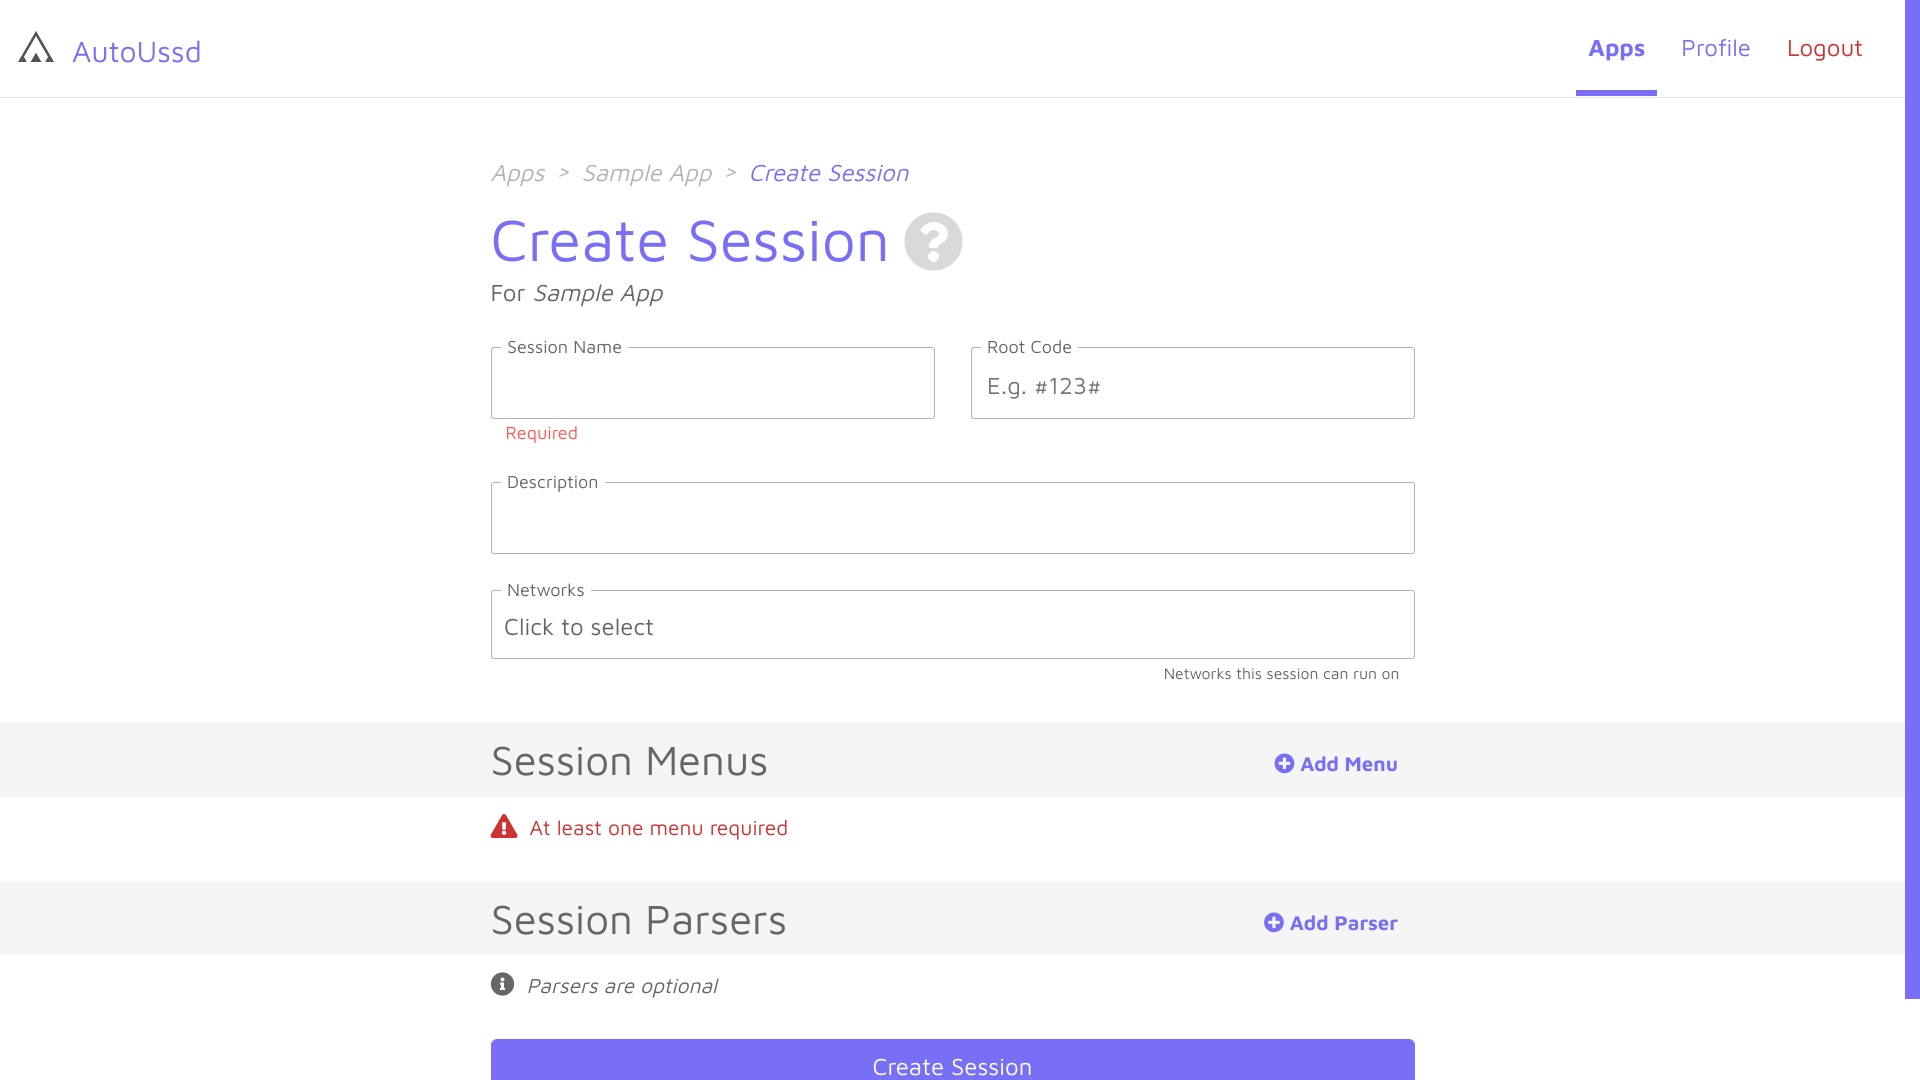
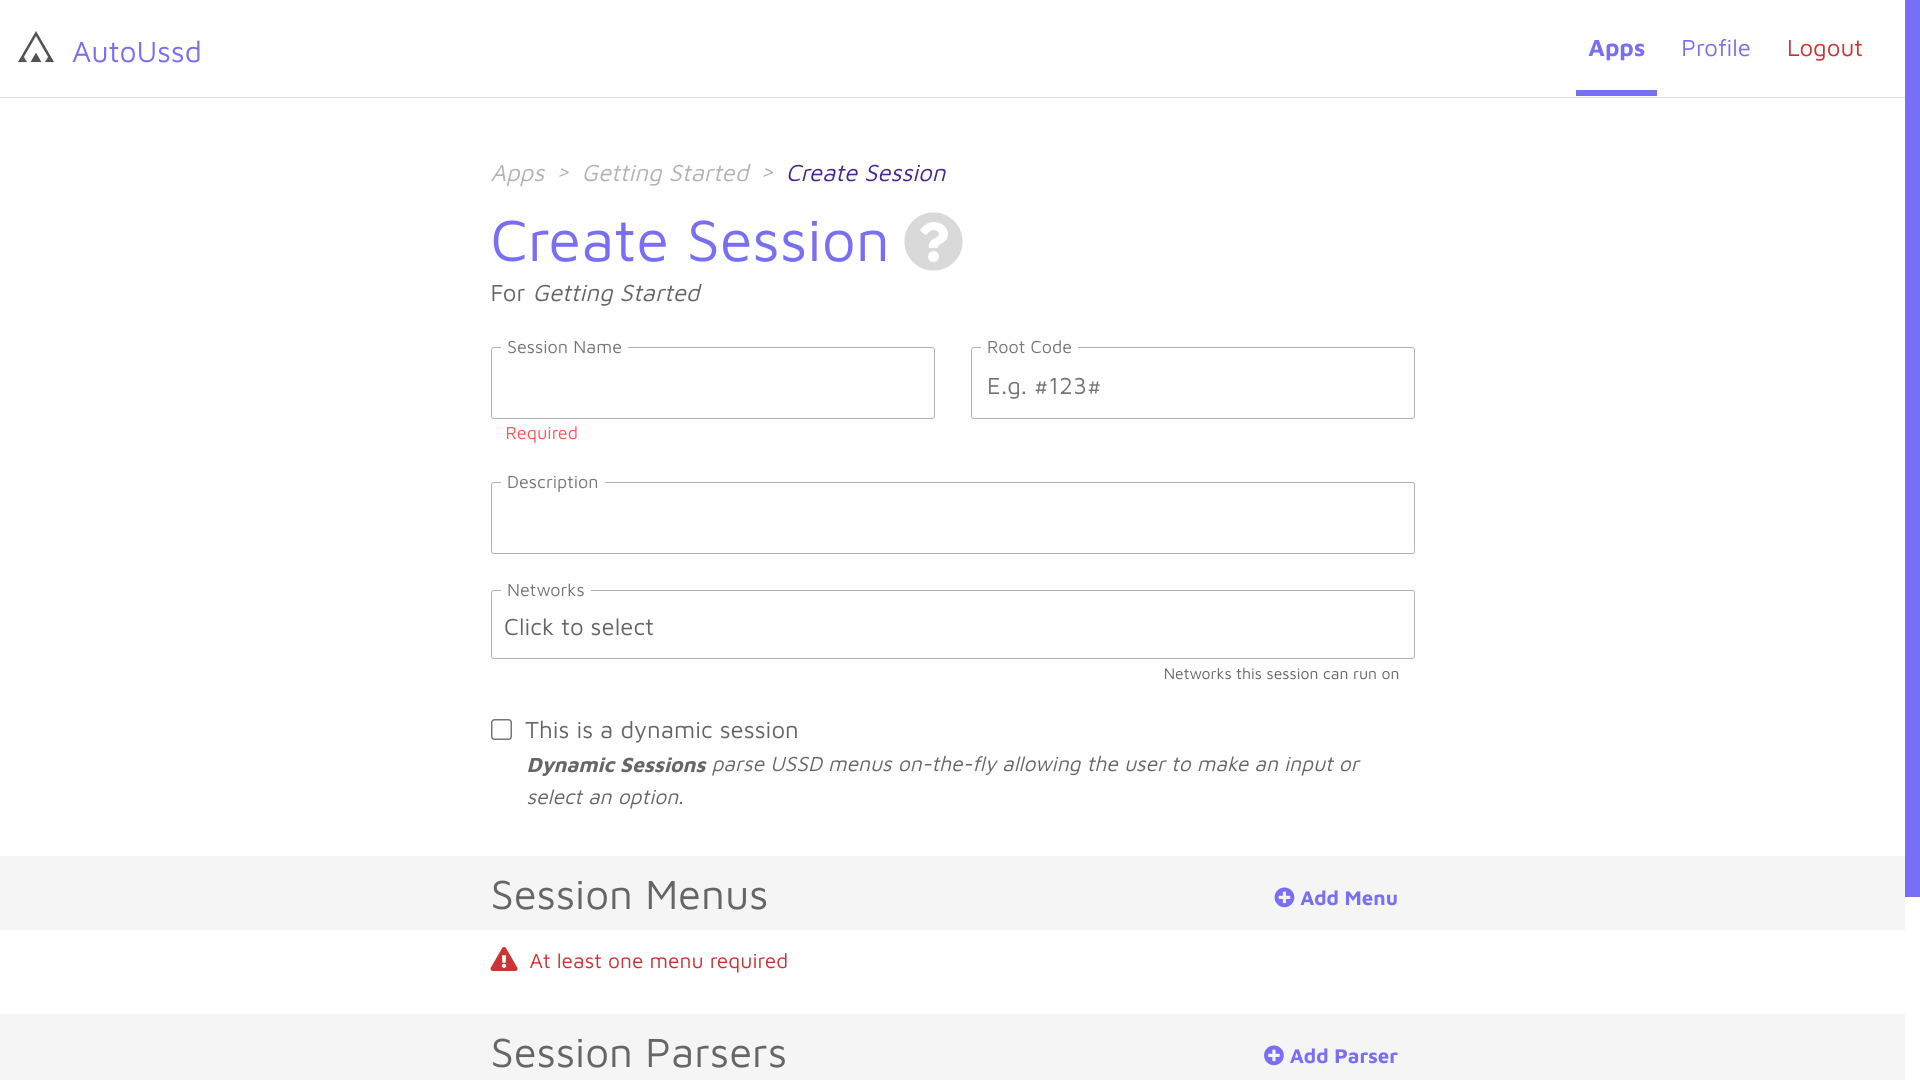
Updated Sessions docs

diff --git a/02.Sessions.md b/02.Sessions.md
@@ -6,33 +6,76 @@ A session is a sequence of USSD menus you would go through to complete a certain
 
 ![](./assets/0201.png)
 
-# Components of a session
 
-A session consists of six (6) components which are described below:
 
-| Component     | Description                                          | Example                                                  |
-| ------------- | ---------------------------------------------------- | -------------------------------------------------------- |
-| `Name`        | A name to identify this session in your session list | *Vodafone money transfer*                                |
-| `Root Code`   | The USSD code which initiates this session           | **110#*                                                  |
-| `Description` | A brief description of this session                  |                                                          |
-| `Networks`    | A list of networks which can execute this session    | *MTN (Ghana)* , *Vodafone (Ghana)*, *AirtelTigo (Ghana)* |
-| `Menus`       | A list of menus which define this session            |                                                          |
-| `Parsers`     | An optional list of parsers for this session         |                                                          |
+## Types of sessions
 
-# Create a session
+AutoUssd supports two (2) types of sessions:
+
+1. Regular Sessions
+2. Dynamic Sessions
+
+
+
+### 1. Regular Sessions
+
+Regular sessions allow you to specify the exact steps to the SDK should take to interact with a USSD service. These steps consist of instructions like "*Enter 1 and Press Ok*" or "*Cancel Operation*".
+
+A regular session has six (6) components which are described below:
+
+| Component     | Description                                                  | Example                                                  |
+| ------------- | ------------------------------------------------------------ | -------------------------------------------------------- |
+| `Name`        | A name to identify this session in your session list         | *Vodafone money transfer*                                |
+| `Root Code`   | The USSD code which initiates this session                   | **110#*                                                  |
+| `Description` | A brief description of this session                          |                                                          |
+| `Networks`    | A list of networks which can execute this session            | *MTN (Ghana)* , *Vodafone (Ghana)*, *AirtelTigo (Ghana)* |
+| `Menus`       | A list of [menus](./03.Menus.md) which define the steps for this session |                                                          |
+| `Parsers`     | An optional list of [parsers](./04.Parsers.md) for this session |                                                          |
+
+
+
+### 2. Dynamic Sessions - *New in v4*
+
+Dynamic sessions instruct the SDK to behave like traditional USSD. When a new USSD dialog is ready, the SDK inspects its text content and generates **highly customizable UI** equivalent and displays that to the user. The SDK then waits for the user to make an input before continuing.
+
+A dynamic session has seven (7) components which are described below:
+
+| Component              | Description                                                  | Example                                                  |
+| ---------------------- | ------------------------------------------------------------ | -------------------------------------------------------- |
+| `Name`                 | A name to identify this session in your session list         | *Vodafone money transfer*                                |
+| `Root Code`            | The USSD code which initiates this session                   | **110#*                                                  |
+| `Description`          | A brief description of this session                          |                                                          |
+| `Networks`             | A list of networks which can execute this session            | *MTN (Ghana)* , *Vodafone (Ghana)*, *AirtelTigo (Ghana)* |
+| `Option Formats`       | A list of [**regular expressions**](https://developer.mozilla.org/en-US/docs/Web/JavaScript/Guide/Regular_Expressions) that define how options look like in the USSD dialogs | `^\d+\.?( +)?\w+`                                        |
+| `Option Value Formats` | A list of [**regular expressions**](https://developer.mozilla.org/en-US/docs/Web/JavaScript/Guide/Regular_Expressions) that extract the value of an option in the USSD.<br /><br />E.g. If we have an option *1. Send Money*, the value of this option is **1**. To extract this **1** from the option, we would use the regular expression `^\d+`. | `^\d+`                                                   |
+| `Timeout`              | The number of seconds the SDK should wait for before a timeout occurs. A timeout occurs when the user has not made an input in a certain period of time |                                                          |
+
+
+
+## Create a session
 
 1. Create or open an existing app in your dashboard
 2. Click on the **Add Session** button
-3. Fill the session form, add your [menus](./03.Menus.md) and [parsers](./04.Parsers.md) (optional)
+3. Fill the session form, add your [menus](./03.Menus.md) and optional [parsers](./04.Parsers.md) (optional) or *option formats* and *option value formats*.
 4. Click the **Create Session** button
 
 ![](./assets/0202.png)
 
+
+
 ![](./assets/0203.png)
 
-# Conclusion
+<p align=center><i>Regular Session</i></p>
 
-Awesome. You've created your very first session. In the guides section, we'll use this sessions to build a sample Android app.
+![](./assets/0204.png)
+
+<p align=center><i>Dynamic Session</i></p>
+
+
+
+## Conclusion
+
+Awesome. You've created your very first session. In the guides section, we'll use this session to build a sample Android app.
 
 
 
